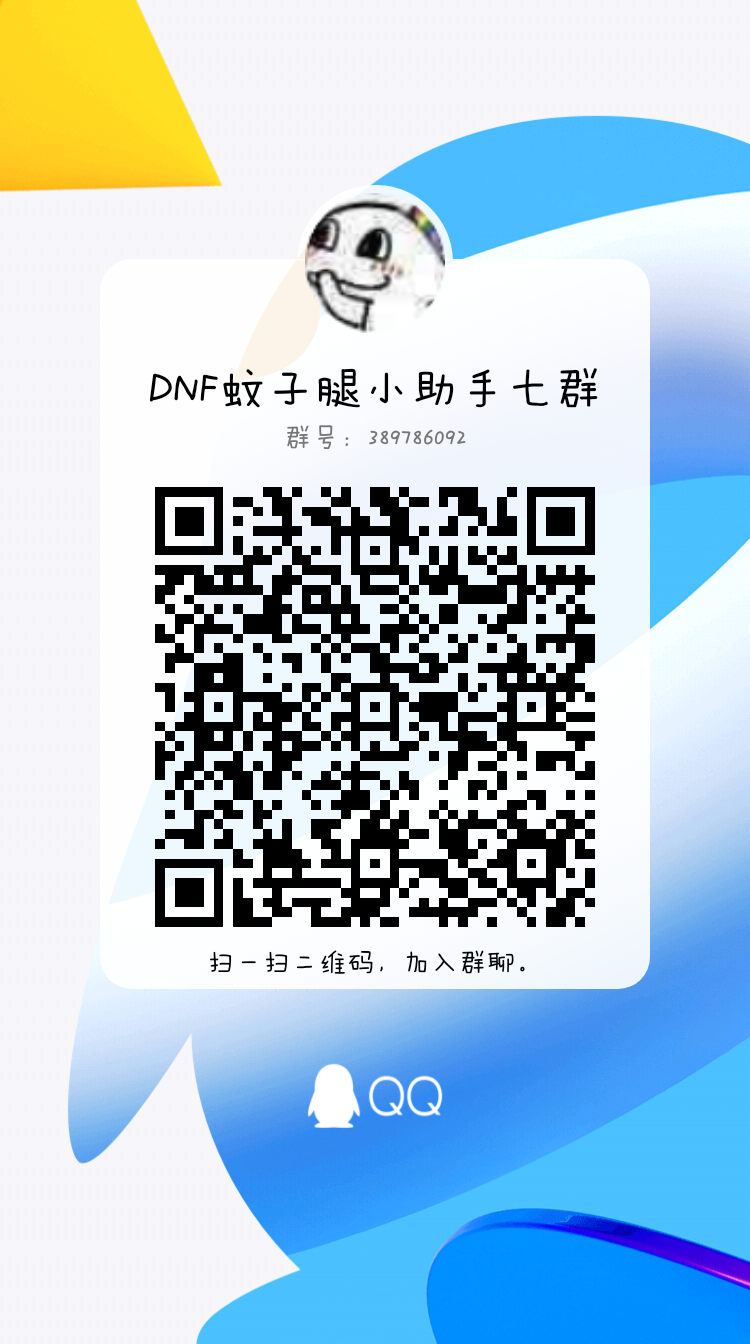
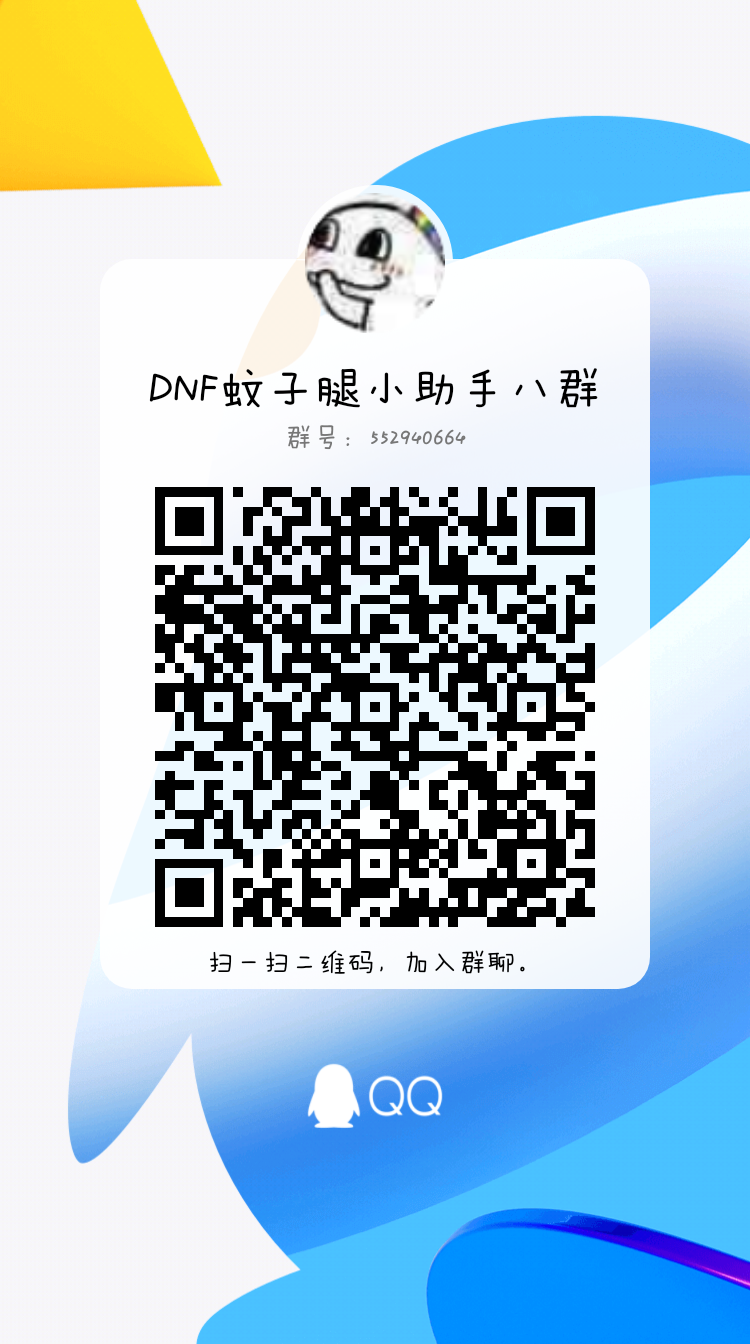
调整QQ群为八群

Changed region(s): [[0.184, 0.3125, 0.7973, 0.6875], [0.6747, 0.2812, 0.736, 0.3125]]

diff --git a/config_ui.py b/config_ui.py
@@ -344,8 +344,8 @@ class ConfigUi(QFrame):
         report_click_event("clear_login_status")
 
     def add_group(self, checked=False):
-        # note: 如果群 389786092 满了，到 https://qun.qq.com/join.html 获取新群的加群链接 @2021-02-13 01:41:03
-        webbrowser.open("https://qm.qq.com/cgi-bin/qm/qr?k=jpLIWC9GQvfN-tiK1SHB94UItFBdk6j0&jump_from=webapi")
+        # note: 如果群 552940664 满了，到 https://qun.qq.com/join.html 获取新群的加群链接 @2021-02-13 01:41:03
+        webbrowser.open("https://qm.qq.com/cgi-bin/qm/qr?k=3sM-vsK3EvoFbIo1FWYTCziMZxKMy4tW&jump_from=webapi")
         for suffix in ["png", "jpg", ]:
             img_name = f"DNF蚊子腿小助手交流群群二维码.{suffix}"
             if not os.path.isfile(img_name):

diff --git a/config.py b/config.py
@@ -669,7 +669,7 @@ class CommonConfig(ConfigInterface):
         # 网盘地址
         self.netdisk_link = "https://fzls.lanzoui.com/s/djc-helper"
         # QQ群
-        self.qq_group = 389786092
+        self.qq_group = 552940664
         # 是否启用自动更新功能
         self.auto_update_on_start = True
         # 是否仅允许单个运行实例

diff --git a/README.MD b/README.MD
@@ -199,6 +199,7 @@ DNF蚊子腿小助手四群 743671885 <br>
 DNF蚊子腿小助手五群 545316504 <br>
 DNF蚊子腿小助手六群 444193814 <br>
 DNF蚊子腿小助手七群 389786092 <br>
+DNF蚊子腿小助手八群 552940664 <br>
 
 # 『重要』与个人隐私有关的skey相关说明
 1. skey是腾讯系应用的通用鉴权票据，个中风险，请Google搜索《腾讯skey》后自行评估

diff --git a/docs/README.md b/docs/README.md
@@ -199,6 +199,7 @@ DNF蚊子腿小助手四群 743671885 <br>
 DNF蚊子腿小助手五群 545316504 <br>
 DNF蚊子腿小助手六群 444193814 <br>
 DNF蚊子腿小助手七群 389786092 <br>
+DNF蚊子腿小助手八群 552940664 <br>
 
 # 『重要』与个人隐私有关的skey相关说明
 1. skey是腾讯系应用的通用鉴权票据，个中风险，请Google搜索《腾讯skey》后自行评估
